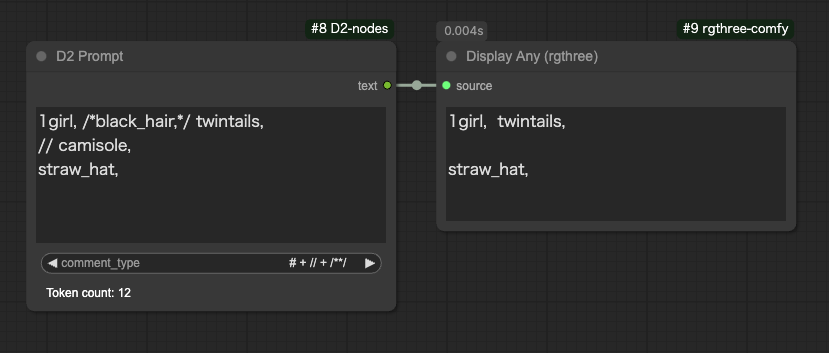
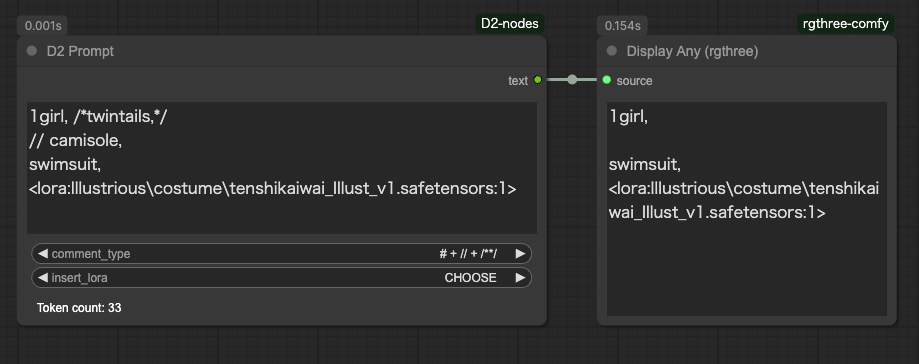
Update documents

diff --git a/docs/ja/node.md b/docs/ja/node.md
@@ -22,28 +22,29 @@ Node
 ### D2 KSampler / D2 KSampler(Advanced)
 
 <figure>
-<img src="../img/ksampler_2.png">
+<img src="../img/ksampler_3.png">
 </figure>
 
 - プロンプトを STRING で入力できる KSampler
+- A1111方式のLoRA読み込みプロンプトに対応
+  - ※`D2 KSampler Advanced` に `positive_cond` / `negative_cond` を入力した場合はCLIPにLoRAは適用されません。
 
 #### Input
 
-- `cnet_stack`
-  - `D2 Controlnet Loader` 接続用
-- `model` / `clip` / `vae` / ..etc
-    - 標準の KSampler と同じ
-- `negative` / `positive`
-    - STRING 形式のプロンプト
+- `cnet_stack`: `D2 Controlnet Loader` 接続用
+- `model` / `clip` / `vae` / ..etc: 標準の KSampler と同じ
+- `negative` / `positive`: STRING 形式のプロンプト
 
 #### Output
 
-- `IMAGE`
-    - 画像出力
-- `positive` / `negative`
-    - Input のパススルー
+- `MODEL` / `CLIP`: LoRA適用済み
+- `positive` / `negative`: Input のパススルー
+- `formatted_positive`: A1111方式のLoRA読み込みを削除したpositiveプロンプト
+- `d2_pipe`: パラメーターをまとめたもの
+
 
 ---
+
 
 ### D2 Pipe
 
@@ -135,6 +136,12 @@ Node
 - `mode`
   - `a1111`: StableDiffusion webui A1111と同じ書式が使用可能なモード
   - `simple`: LoRA名を並べるだけのシンプルなモード。このモードでは output の `STRING` は使わない
+
+#### Output
+
+- `MODEL` / `CLIP`: LoRA適用済みのMODEL、CLIP
+- `prompt`: 入力されたテキストをそのまま出力
+- `formatted_prompt`: LoRA指定部分が削除されたテキスト
 
 
 #### モードによる書式の違い

diff --git a/docs/zh/node.md b/docs/zh/node.md
@@ -20,27 +20,25 @@
 ### D2 KSampler / D2 KSampler(Advanced)
 
 <figure>
-<img src="../img/ksampler_2.png">
+<img src="../img/ksampler_3.png">
 </figure>
 
-- 可以用 STRING 格式輸入提示詞的 KSampler
+- 可以用STRING格式輸入提示詞的KSampler
+- 支援A1111方式的LoRA載入提示詞
+  - 註：當在`D2 KSampler Advanced`中輸入`positive_cond` / `negative_cond`時，LoRA將不會套用到CLIP。
 
 #### Input
 
-- `cnet_stack`
-  - 用於連接 `D2 Controlnet Loader`
-- `model` / `clip` / `vae` / ..etc
-    - 與標準 KSampler 相同
-- `negative` / `positive`
-    - STRING 格式的提示詞
+- `cnet_stack`：用於連接`D2 Controlnet Loader`
+- `model` / `clip` / `vae` / ..etc：與標準KSampler相同
+- `negative` / `positive`：STRING格式的提示詞
 
 #### Output
 
-- `IMAGE`
-    - 圖像輸出
-- `positive` / `negative`
-    - Input 的直通
-
+- `MODEL` / `CLIP`：已套用LoRA
+- `positive` / `negative`：輸入的直接傳遞
+- `formatted_positive`：已刪除A1111方式LoRA載入的positive提示詞
+- `d2_pipe`：整合後的參數
 
 ---
 
@@ -124,12 +122,17 @@
 - 具體使用方法請參考<a href="workflow.md">範例工作流程</a>
 
 
-#### 輸入
+#### Input
 
 - `mode`
   - `a1111`: 可以使用與StableDiffusion webui A1111相同格式的模式
   - `simple`: 僅列出LoRA名稱的簡單模式。在此模式下，不使用輸出中的`STRING`
 
+#### Output
+
+- `MODEL` / `CLIP`: 已套用LoRA的MODEL、CLIP
+- `prompt`: 直接輸出輸入的文字
+- `formatted_prompt`: 已刪除LoRA指定部分的文字
 
 #### 不同模式下的格式差異
 

diff --git a/docs/en/node.md b/docs/en/node.md
@@ -17,29 +17,29 @@
 ### D2 KSampler / D2 KSampler(Advanced)
 
 <figure>
-<img src="../img/ksampler_2.png">
+<img src="../img/ksampler_3.png">
 </figure>
 
-- KSampler that can input prompts as STRING
+- KSampler that can input prompts in STRING format
+- Supports A1111-style LoRA loading prompts
+  - Note: When inputting `positive_cond` / `negative_cond` to `D2 KSampler Advanced`, LoRA will not be applied to CLIP.
 
 #### Input
 
-- `cnet_stack`
-  - For connecting to `D2 Controlnet Loader`
-- `model` / `clip` / `vae` / ..etc
-    - Same as standard KSampler
-- `negative` / `positive`
-    - Prompts in STRING format
+- `cnet_stack`: For connecting to `D2 Controlnet Loader`
+- `model` / `clip` / `vae` / ..etc: Same as standard KSampler
+- `negative` / `positive`: Prompts in STRING format
 
 #### Output
 
-- `IMAGE`
-    - Image output
-- `positive` / `negative`
-    - Input passthrough
-
+- `MODEL` / `CLIP`: With LoRA applied
+- `positive` / `negative`: Input passthrough
+- `formatted_positive`: Positive prompt with A1111-style LoRA loading removed
+- `d2_pipe`: Consolidated parameters
 
 ---
+
+
 
 ### D2 Pipe
 
@@ -127,6 +127,11 @@
   - `a1111`: Mode that allows using the same format as StableDiffusion webui A1111
   - `simple`: Simple mode that just lists LoRA names. In this mode, the `STRING` output is not used
 
+#### Output
+
+- `MODEL` / `CLIP`: MODEL and CLIP with LoRA applied
+- `prompt`: Outputs the input text as is
+- `formatted_prompt`: Text with LoRA specification parts removed
 
 #### Format differences based on mode
 

diff --git a/docs/en/index.md b/docs/en/index.md
@@ -164,6 +164,12 @@ If you have installed any of the following custom nodes previously, please remov
 
 ## :blossom: Changelog
 
+**2025.04.16**
+
+- `D2_Prompt`: Add LoRA insertion button
+- `D2_KSampler` / `D2_KSamplerAdvanced`: Support A1111-style LoRA loading prompts. Load LoRA inside KSampler
+- `D2_LoadLora`: Changed the output `prompt` to output A1111-style LoRA loading prompts without removing them. The conventional output has been renamed to `formatted_prompt`
+
 **2025.04.14**
 
 - `D2 Cut By Mask`: Newly added

diff --git a/docs/ja/index.md b/docs/ja/index.md
@@ -165,6 +165,12 @@ D2 Nodes ComfyUI
 
 ## :blossom: Changelog
 
+**2025.04.16**
+
+- `D2_Prompt`: LoRA挿入ボタンを追加
+- `D2_KSampler` / `D2_KSamplerAdvanced`: A1111方式のLoRA読み込みプロンプトに対応。KSampler内部でLoRA読み込みをする
+- `D2_LoadLora`: outputの `prompt` はA1111方式のLoRA読み込みプロンプトを消さずに出力するように変更。従来のものは `formatted_prompt` に名称変更
+
 **2025.04.14**
 
 - `D2 Cut By Mask`: 新規追加

diff --git a/docs/en/node_text.md b/docs/en/node_text.md
@@ -185,7 +185,7 @@ Output text
   <img src="../img/prompt.png">
 </figure>
 
-- Delete comments in text
+- You can select LoRA from the `CHOOSE` button and insert an A1111-style LoRA prompt- Delete comments in text
 - Targets lines starting with "#", lines starting with "//", and text between "/*" and "*/"
 - Displays token count at the bottom
 - Uses "ViT-L/14" CLIP for token count measurement. Please use `D2 Token Counter` if you want to use other CLIP models

diff --git a/docs/zh/index.md b/docs/zh/index.md
@@ -165,6 +165,12 @@
 
 ## :blossom: 更新日誌
 
+**2025.04.16**
+
+- `D2_Prompt`：添加LoRA插入按鈕
+- `D2_KSampler` / `D2_KSamplerAdvanced`：支援A1111方式的LoRA載入提示詞。在KSampler內部進行LoRA載入
+- `D2_LoadLora`：輸出的 `prompt` 更改為不刪除A1111方式的LoRA載入提示詞。傳統的輸出已重新命名為 `formatted_prompt`
+
 **2025.04.14**
 
 - `D2 Cut By Mask`: 新增功能

diff --git a/docs/ja/node_text.md b/docs/ja/node_text.md
@@ -216,9 +216,10 @@ Output text
 ### D2 Prompt
 
 <figure>
-  <img src="../img/prompt.png">
+  <img src="../img/prompt.png?2">
 </figure>
 
+- `CHOOSE`ボタンからLoRAを選択し、A1111方式のLoRAプロンプトを挿入できる
 - テキスト内のコメントを削除する
 - 行頭「#」、行頭「//」、「/\*」〜「\*/」の間が対象
 - トークン数を下部に表示

diff --git a/docs/zh/node_text.md b/docs/zh/node_text.md
@@ -211,6 +211,7 @@ Output text
   <img src="../img/prompt.png">
 </figure>
 
+- 您可以從 `CHOOSE` 按鈕選擇LoRA，並插入A1111方式的LoRA提示詞
 - 刪除文字中的註解
 - 包括行首「#」、行首「//」以及「/*」至「*/」之間的內容
 - 在底部顯示令牌數量
